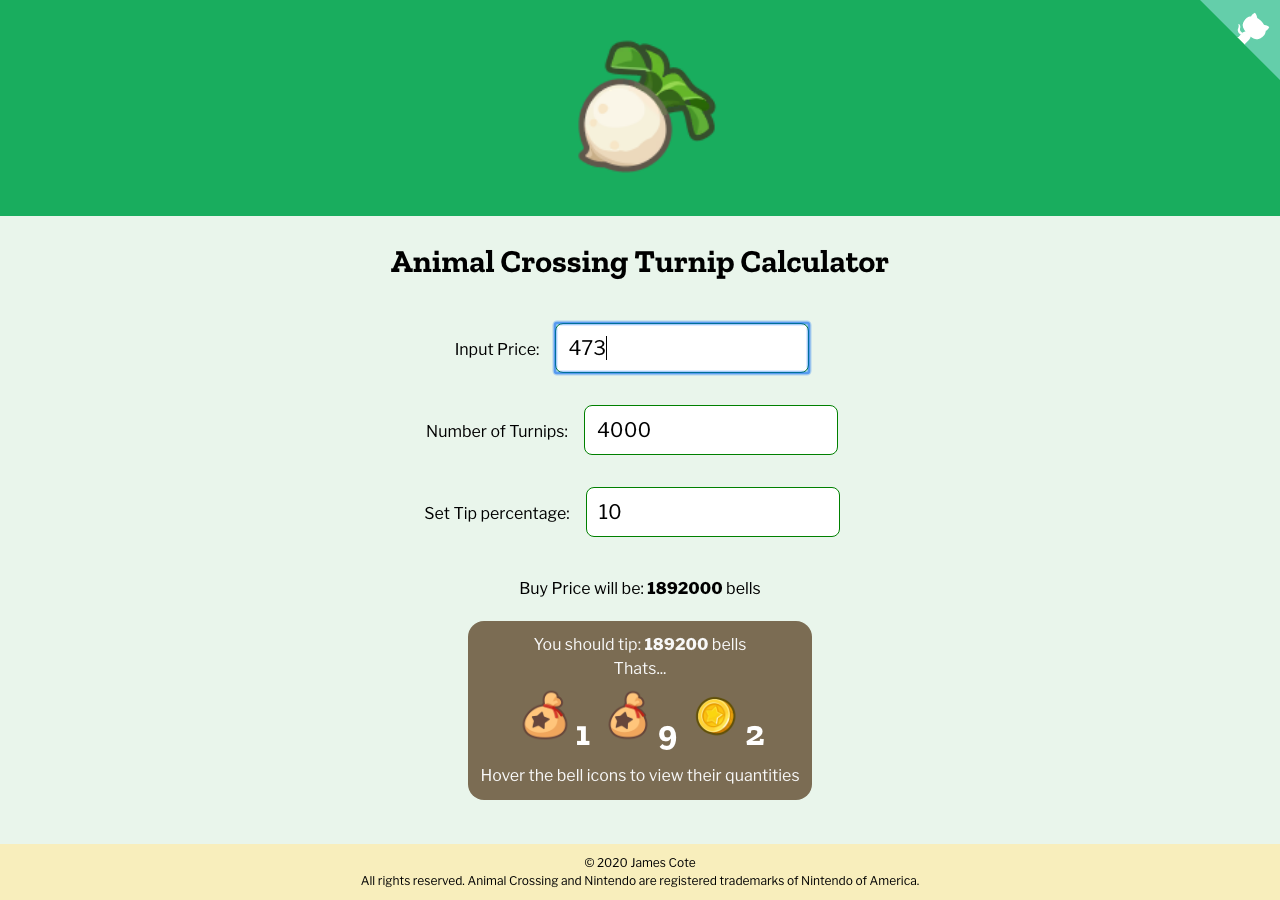
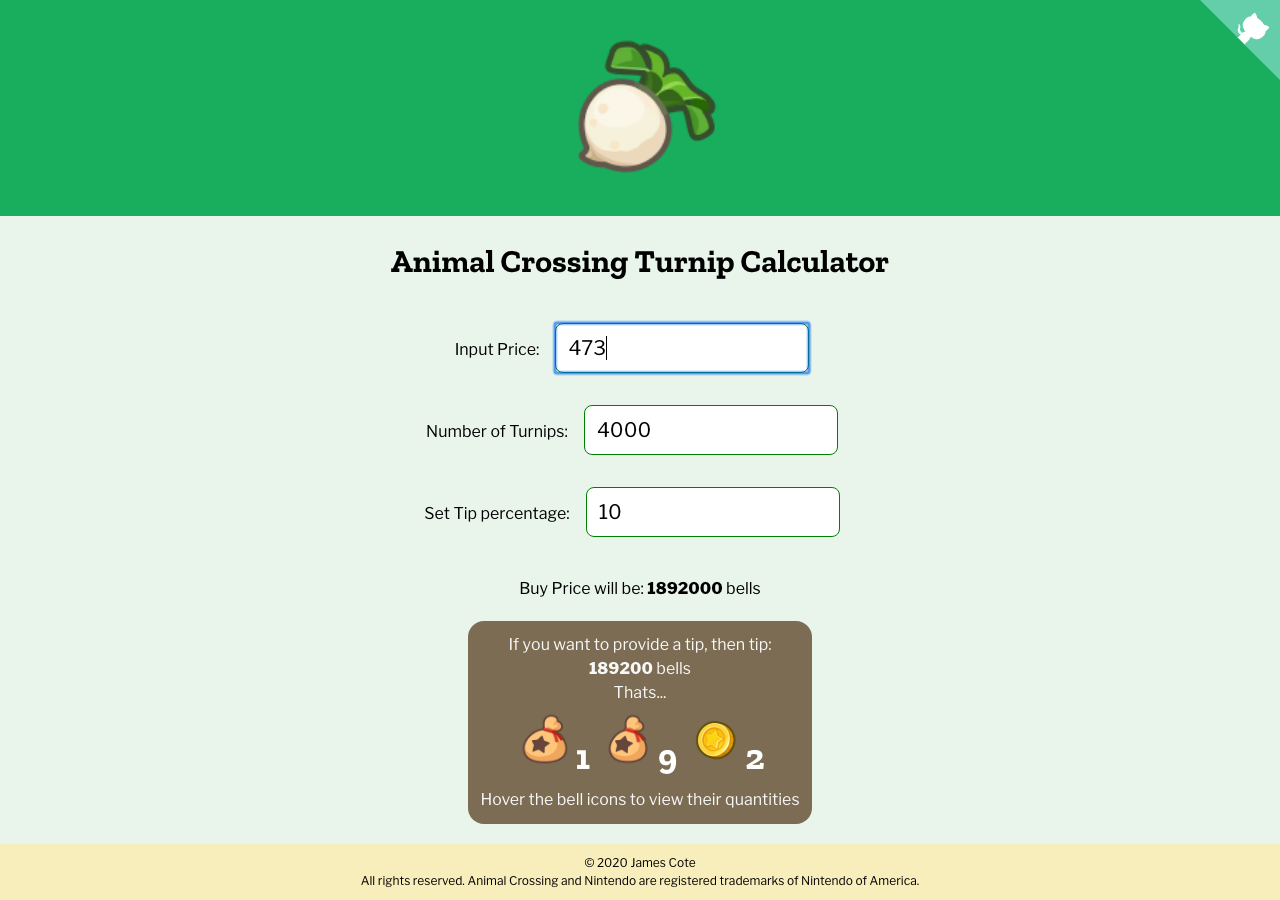
Clarify explanation of tipping (#32)

Changed region(s): [[0.3438, 0.6844, 0.6562, 0.9333]]

diff --git a/src/component/TipDisplay.tsx b/src/component/TipDisplay.tsx
@@ -44,7 +44,7 @@ export default function TipDisplay(props: any) {
       `}
     >
       <label>
-        You should tip: <b>{tip}</b> bells
+        If you want to provide a tip, then tip: <b>{tip}</b> bells
       </label>
       <br />
       <span>Thats...</span>

diff --git a/README.md b/README.md
@@ -11,7 +11,9 @@ A simple React application I made to quickly calculate total amount of bells the
 
 ## Motivation
 
-When travelling to other players' islands via [r/acturnips](https://www.reddit.com/r/acturnips/) to sell turnips, it's generally expected to give the players hosting the island a tip. I found myself having to do quick mental maths and opening a calculator every time I wanted to calculate how many stacks of bells I needed to leave for the player for a 10% tip (the community standard tip percentage). Although the calculation is rather simple, I wanted to build a tool that automatically did it so I can save time.
+When travelling to other players' islands via [r/acturnips](https://www.reddit.com/r/acturnips/) to sell turnips, players can choose to provide the hosting player a tip, which would be a percentage of their earnings. It is certainly not required to tip at all, but I do it because the player took time out of their day to host their island and I want to give something to them in return.
+
+When figuring out how many bells to leave for the player, I found myself having to do quick mental maths and opening a calculator every time. I wanted to build a tool that automatically did it so I can save time.
 
 ## Features
 
